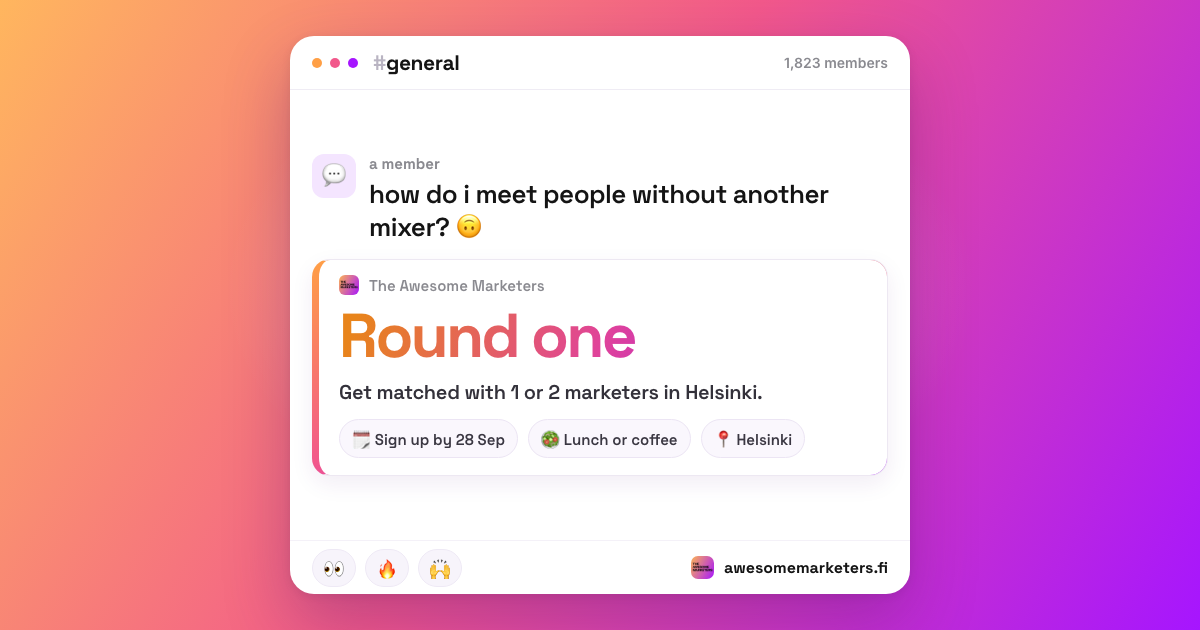
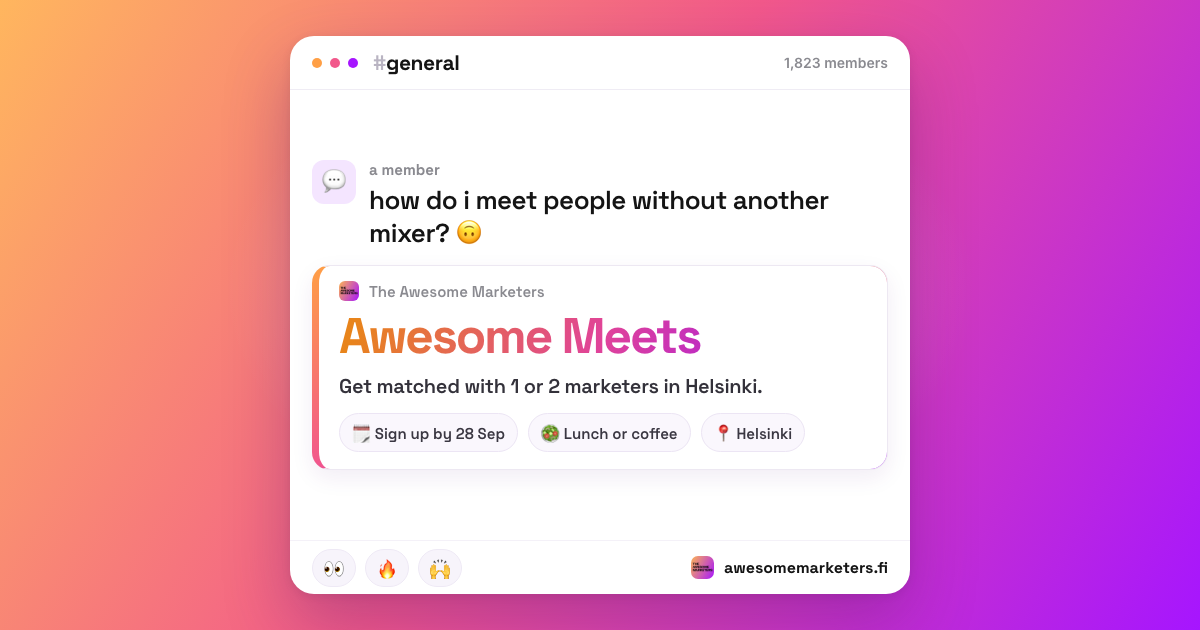
Awesome Meets card: focal reads the format name, not 'Round one'

diff --git a/_og/build_og.py b/_og/build_og.py
@@ -88,7 +88,7 @@ PAGES = [
 
  dict(slug="awesome-meets", path="awesome-meets/index.html", ch="general",
    q="how do i meet people without another mixer? 🙃",
-   big="Round one", line="Get matched with 1 or 2 marketers in Helsinki.",
+   big="Awesome Meets", line="Get matched with 1 or 2 marketers in Helsinki.",
    chips=["🗓 Sign up by 28 Sep", "🥗 Lunch or coffee", "📍 Helsinki"]),
 ]
 
@@ -179,7 +179,7 @@ def esc(s):
 def build(p, i, logo_uri):
     tint, emoji = AV[i % len(AV)]
     n = len(p["big"])
-    bs = 70 if n <= 6 else 62 if n <= 9 else 54 if n <= 12 else 46
+    bs = 70 if n <= 6 else 62 if n <= 9 else 56 if n <= 12 else 50
     qs = 29 if len(p["q"]) <= 40 else 26
     chips = ""
     if p.get("chips"):
